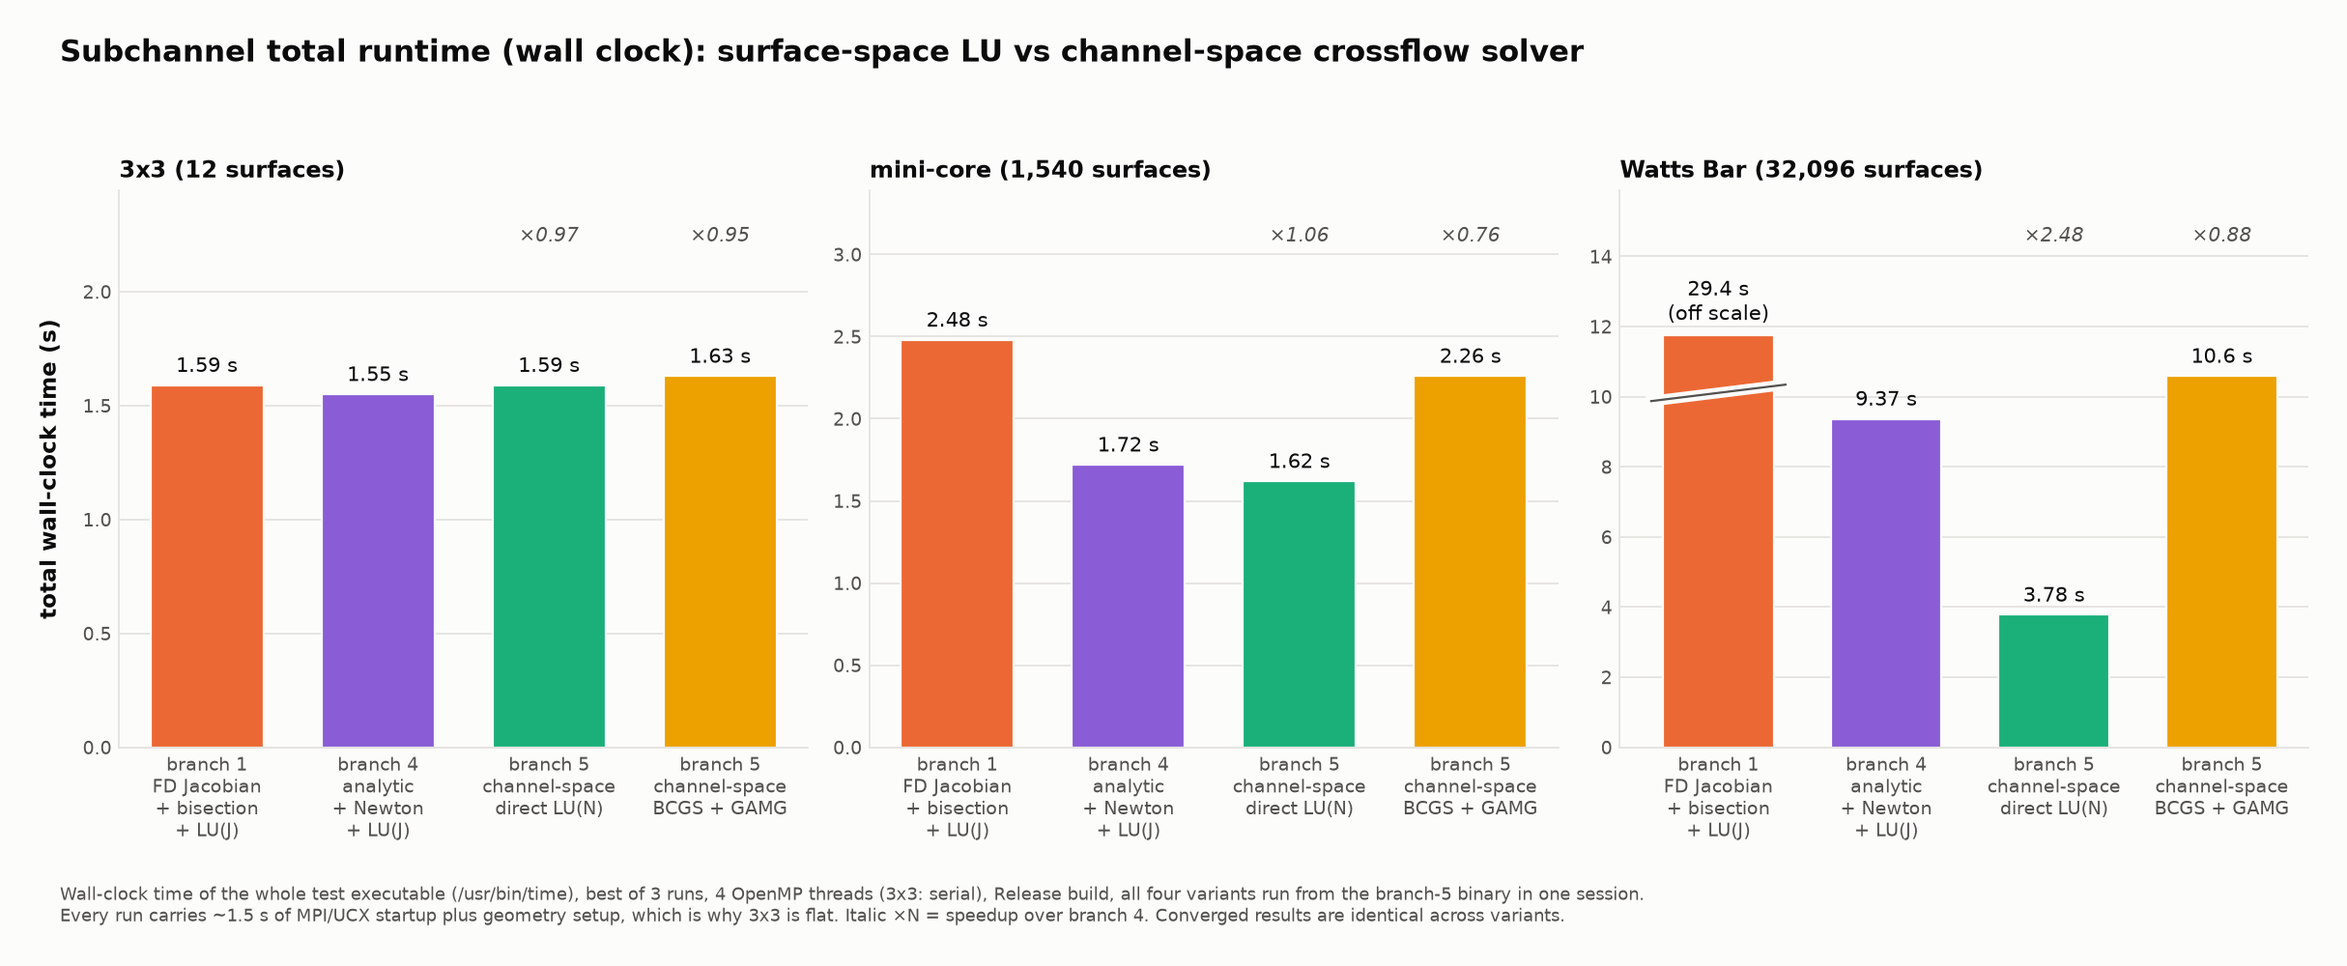
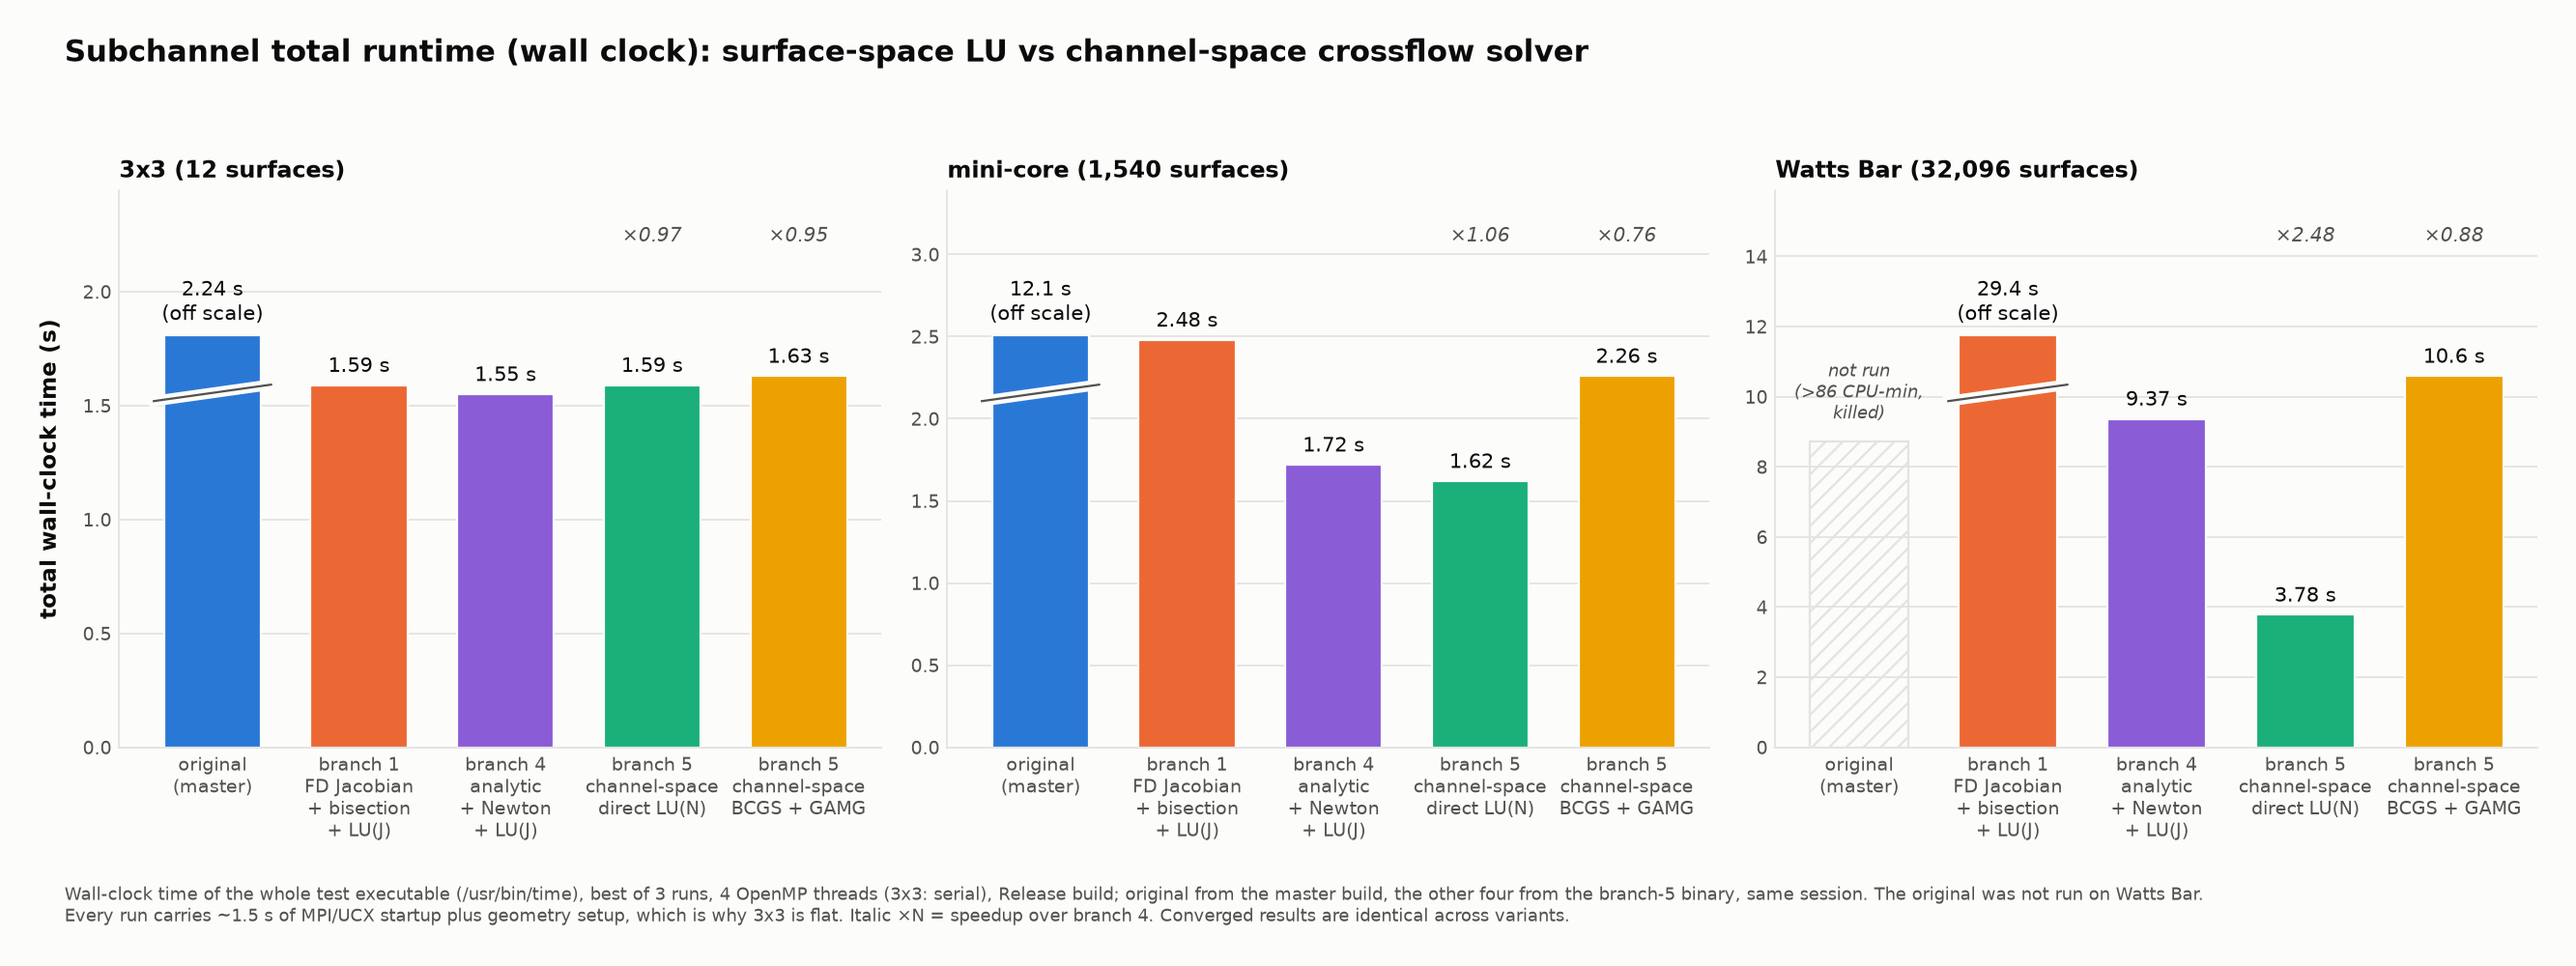
Total-runtime figure: add the original (master) baseline

diff --git a/perf/tools/subchannel_schur_total_runtime_chart.py b/perf/tools/subchannel_schur_total_runtime_chart.py
@@ -3,21 +3,25 @@ matplotlib.use("Agg")
 import matplotlib.pyplot as plt
 import numpy as np
 INK, INK2, SURF, GRID = "#0b0b0b", "#52514e", "#fcfcfb", "#e4e3df"
-COLS = ["#eb6834", "#8a5cd6", "#1baf7a", "#eda100"]
-versions = ["branch 1\nFD Jacobian\n+ bisection\n+ LU(J)", "branch 4\nanalytic\n+ Newton\n+ LU(J)",
+COLS = ["#2a78d6", "#eb6834", "#8a5cd6", "#1baf7a", "#eda100"]
+versions = ["original\n(master)", "branch 1\nFD Jacobian\n+ bisection\n+ LU(J)", "branch 4\nanalytic\n+ Newton\n+ LU(J)",
             "branch 5\nchannel-space\ndirect LU(N)", "branch 5\nchannel-space\nBCGS + GAMG"]
 cases = ["3x3 (12 surfaces)", "mini-core (1,540 surfaces)", "Watts Bar (32,096 surfaces)"]
 # total wall-clock of the test executable (/usr/bin/time %e), best of 3, 4 OpenMP threads (3x3: serial),
 # same session; includes ~1.5 s MPI/UCX startup, geometry setup and the test harness
-wall = {cases[0]: [1.59, 1.55, 1.59, 1.63], cases[1]: [2.48, 1.72, 1.62, 2.26], cases[2]: [29.41, 9.37, 3.78, 10.59]}
-fig, axes = plt.subplots(1, 3, figsize=(15, 5.8), facecolor=SURF)
+wall = {cases[0]: [2.24, 1.59, 1.55, 1.59, 1.63], cases[1]: [12.06, 2.48, 1.72, 1.62, 2.26], cases[2]: [None, 29.41, 9.37, 3.78, 10.59]}
+fig, axes = plt.subplots(1, 3, figsize=(16.5, 5.8), facecolor=SURF)
 fig.suptitle("Subchannel total runtime (wall clock): surface-space LU vs channel-space crossflow solver",
              fontsize=14, color=INK, fontweight="bold", x=0.02, ha="left", y=0.99)
-x = np.arange(4)
+x = np.arange(5)
 for c, case in enumerate(cases):
     ax = axes[c]; ax.set_facecolor(SURF)
-    vals = wall[case]; top = max(vals[1:]) * 1.5
+    vals = wall[case]; top = max(v for v in vals[2:]) * 1.5
     for i, v in enumerate(vals):
+        if v is None:
+            ax.bar(x[i], top * 0.55, color="none", edgecolor=GRID, hatch="///", width=0.66, linewidth=1)
+            ax.text(x[i], top * 0.58, "not run\n(>86 CPU-min,\nkilled)", ha="center", va="bottom", fontsize=8, color=INK2, style="italic")
+            continue
         h = min(v, top * 0.74)
         ax.bar(x[i], h, color=COLS[i], width=0.66, edgecolor=SURF, linewidth=1)
         txt = f"{v:.2f} s" if v < 10 else f"{v:.1f} s"
@@ -26,11 +30,11 @@ for c, case in enumerate(cases):
             ax.plot([x[i] - 0.4, x[i] + 0.4], [h * 0.84, h * 0.88], color=INK2, lw=1, zorder=4)
             txt += "\n(off scale)"
         ax.text(x[i], h + top * 0.015, txt, ha="center", va="bottom", fontsize=9.5, color=INK)
-    for i in (2, 3):
-        r = vals[1] / vals[i]
+    for i in (3, 4):
+        r = vals[2] / vals[i]
         ax.text(x[i], top * 0.90, f"×{r:.2f}", ha="center", va="bottom", fontsize=9, color=INK2, style="italic")
     ax.set_ylim(0, top)
-    ax.set_xticks(x); ax.set_xticklabels(versions, fontsize=8.2, color=INK2)
+    ax.set_xticks(x); ax.set_xticklabels(versions, fontsize=7.8, color=INK2)
     ax.set_title(case, fontsize=11, color=INK, loc="left", fontweight="bold")
     ax.yaxis.grid(True, color=GRID); ax.set_axisbelow(True)
     for s in ["top", "right"]: ax.spines[s].set_visible(False)
@@ -38,8 +42,8 @@ for c, case in enumerate(cases):
     ax.tick_params(colors=INK2, length=0, labelsize=8.5)
 axes[0].set_ylabel("total wall-clock time (s)", fontsize=10.5, color=INK, fontweight="bold", labelpad=10)
 fig.text(0.02, 0.005,
-         "Wall-clock time of the whole test executable (/usr/bin/time), best of 3 runs, 4 OpenMP threads (3x3: serial), Release build, all four variants "
-         "run from the branch-5 binary in one session.\nEvery run carries ~1.5 s of MPI/UCX startup plus geometry setup, which is why 3x3 is flat. "
+         "Wall-clock time of the whole test executable (/usr/bin/time), best of 3 runs, 4 OpenMP threads (3x3: serial), Release build; original from the master build, "
+         "the other four from the branch-5 binary, same session. The original was not run on Watts Bar.\nEvery run carries ~1.5 s of MPI/UCX startup plus geometry setup, which is why 3x3 is flat. "
          "Italic ×N = speedup over branch 4. Converged results are identical across variants.",
          fontsize=8.3, color=INK2)
 plt.tight_layout(rect=(0, 0.06, 1, 0.94))
